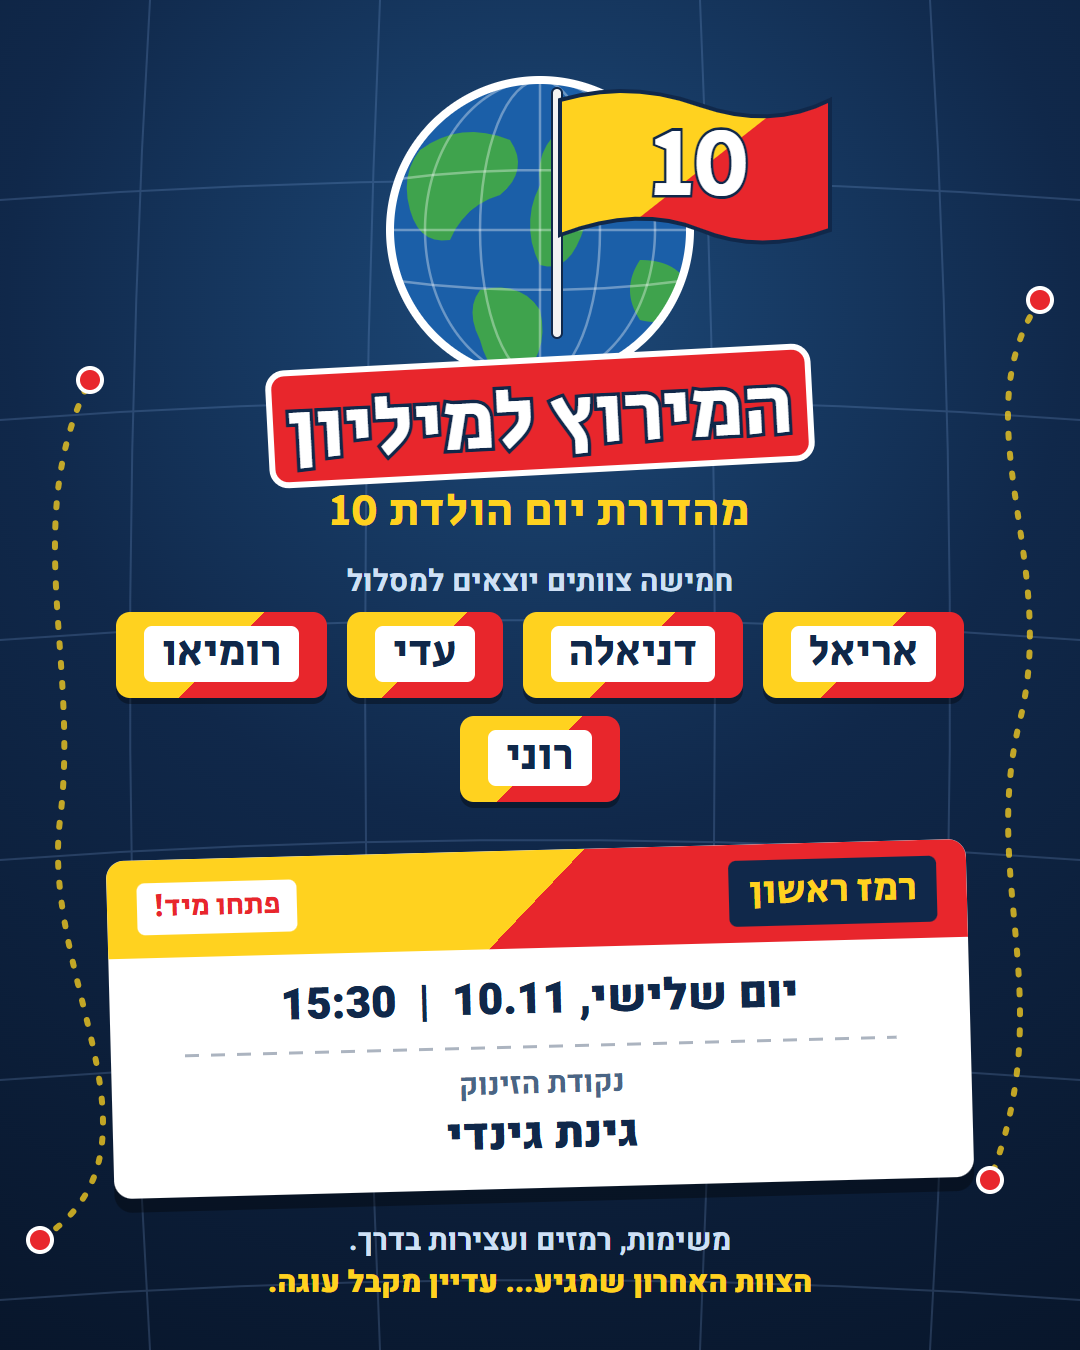
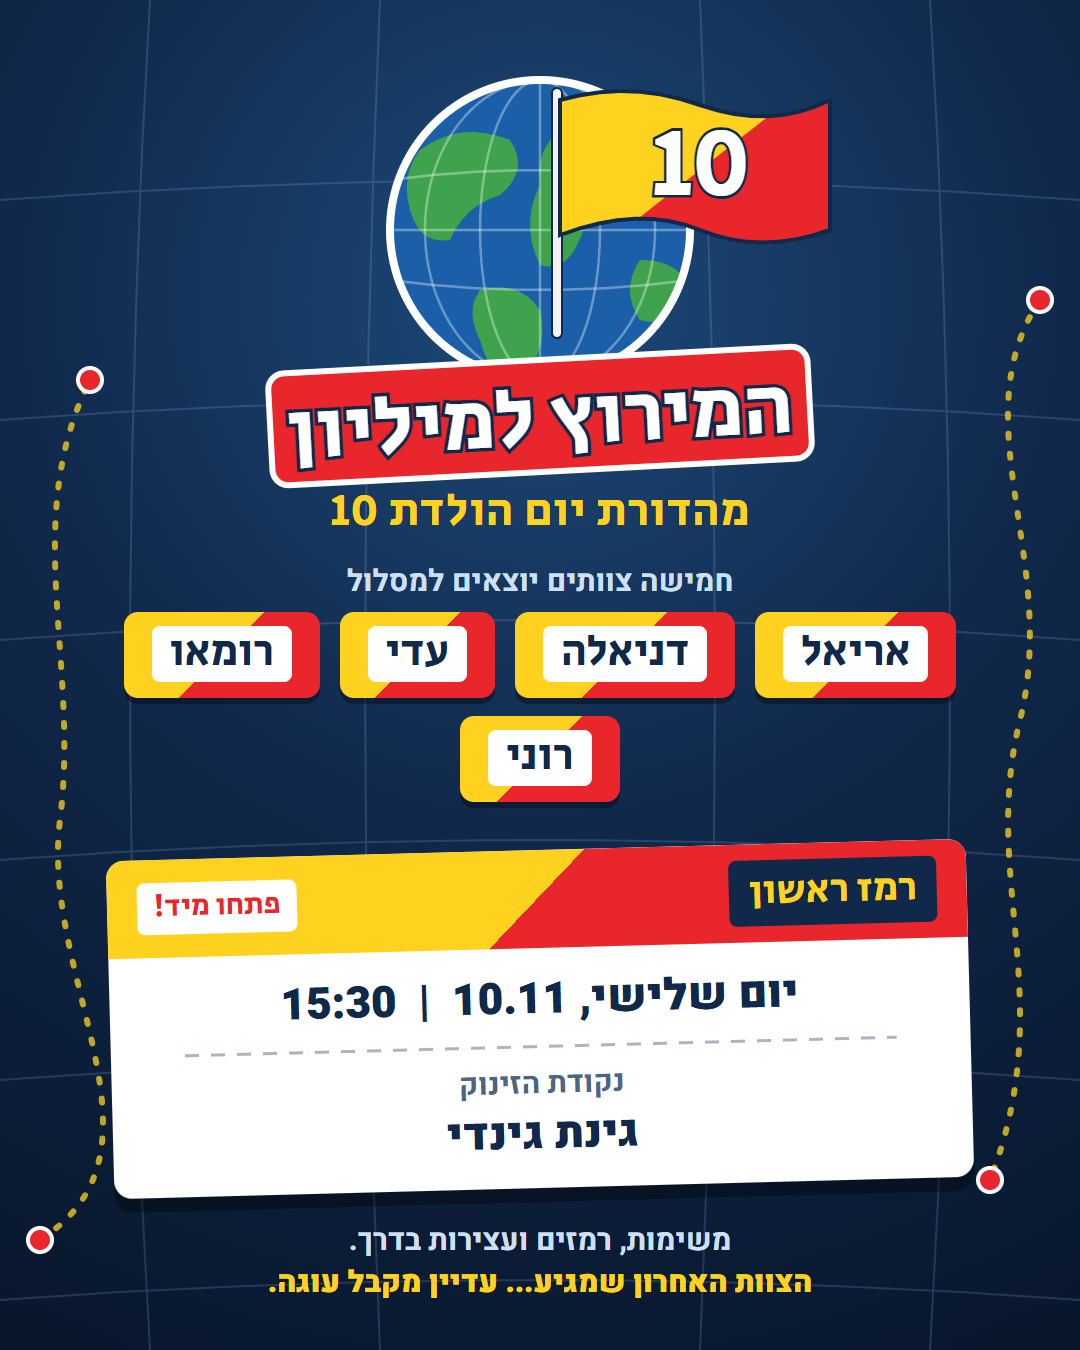
Fix name spelling: Romeo

Changed region(s): [[0.0917, 0.4356, 0.9167, 0.5289]]

diff --git a/index.html b/index.html
@@ -5,7 +5,7 @@
 <meta name="viewport" content="width=device-width,initial-scale=1,viewport-fit=cover">
 <title>המירוץ למיליון - יום הולדת 10</title>
 <meta property="og:title" content="המירוץ למיליון - יום הולדת 10">
-<meta property="og:description" content="אריאל, דניאלה, עדי, רומיאו ורוני מזמינים אתכם. לחצו על המעטפה לרמז הראשון.">
+<meta property="og:description" content="אריאל, דניאלה, עדי, רומאו ורוני מזמינים אתכם. לחצו על המעטפה לרמז הראשון.">
 <meta property="og:image" content="https://brerez1-netizen.github.io/yomuledet-10/invite.png">
 <meta name="theme-color" content="#10284a">
 <link rel="preconnect" href="https://fonts.googleapis.com">
@@ -190,7 +190,7 @@
     <div class="team"><span>אריאל</span></div>
     <div class="team"><span>דניאלה</span></div>
     <div class="team"><span>עדי</span></div>
-    <div class="team"><span>רומיאו</span></div>
+    <div class="team"><span>רומאו</span></div>
     <div class="team"><span>רוני</span></div>
   </div>
 
